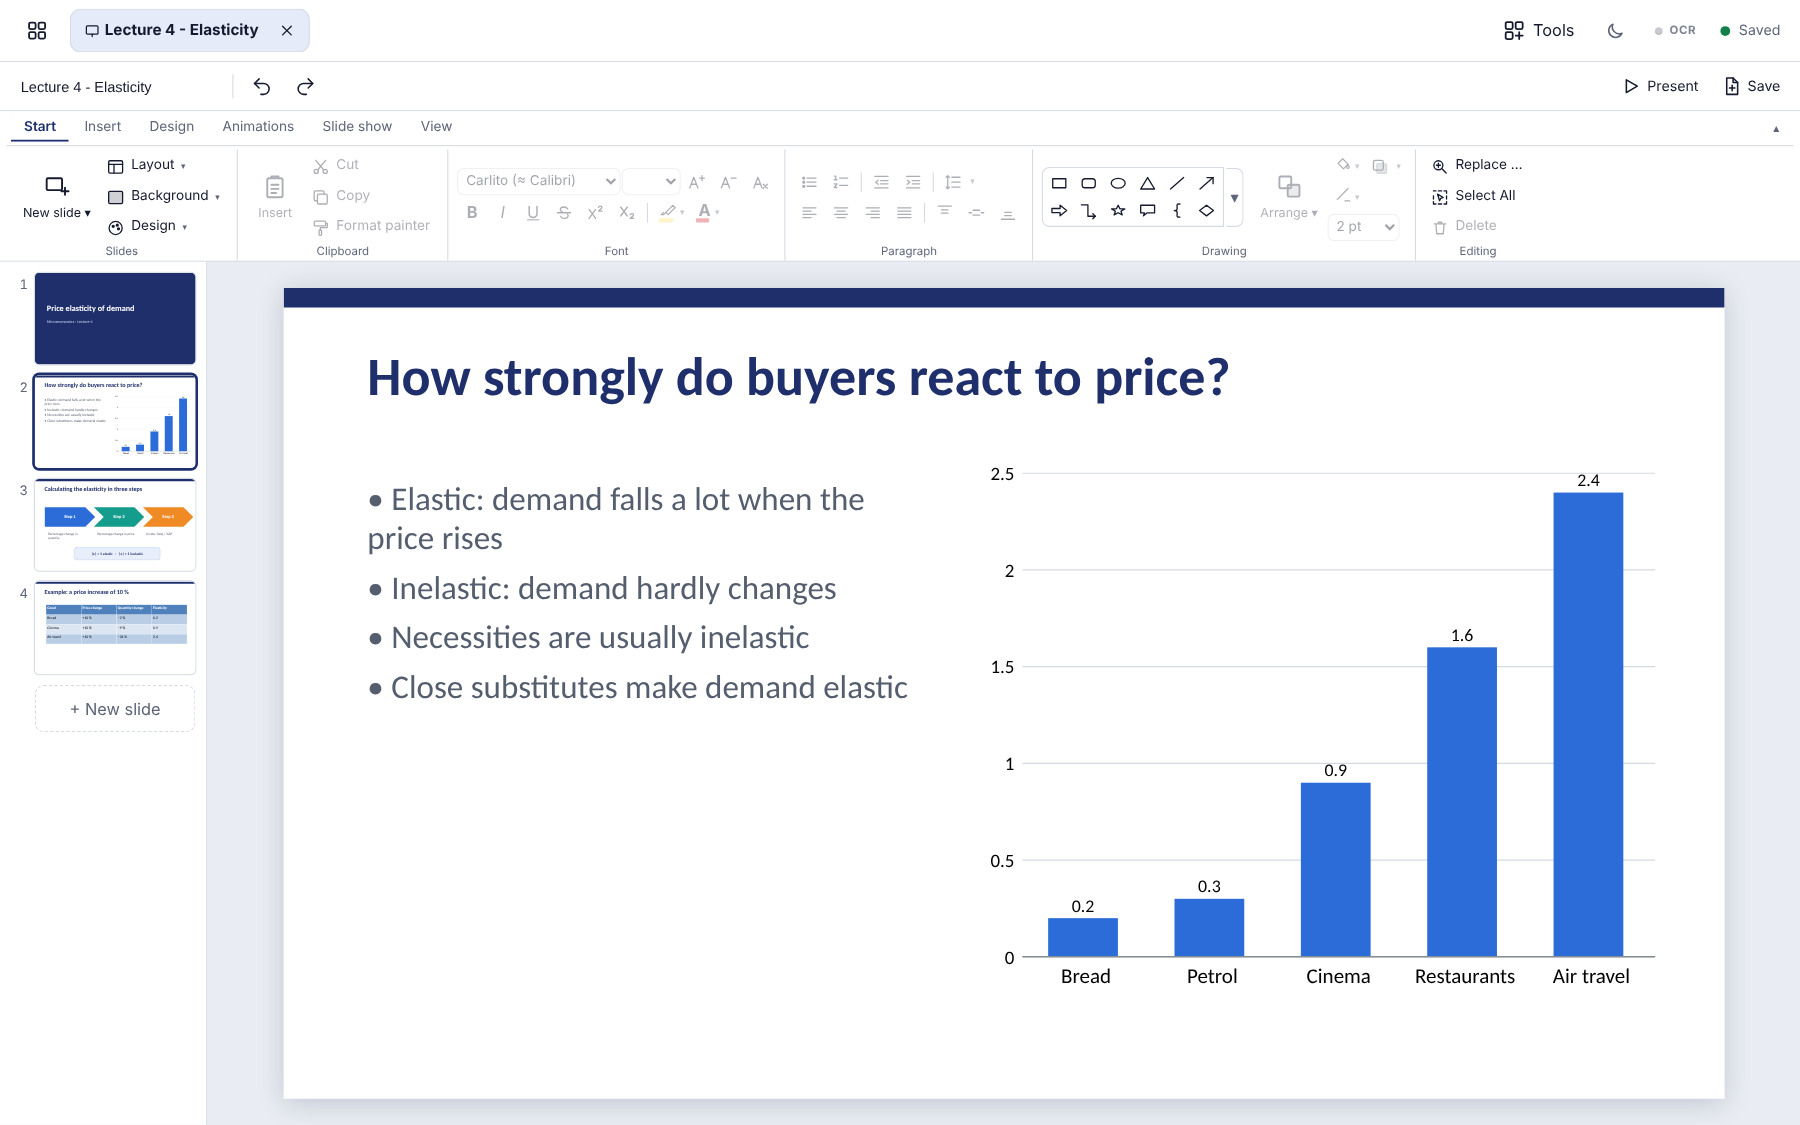
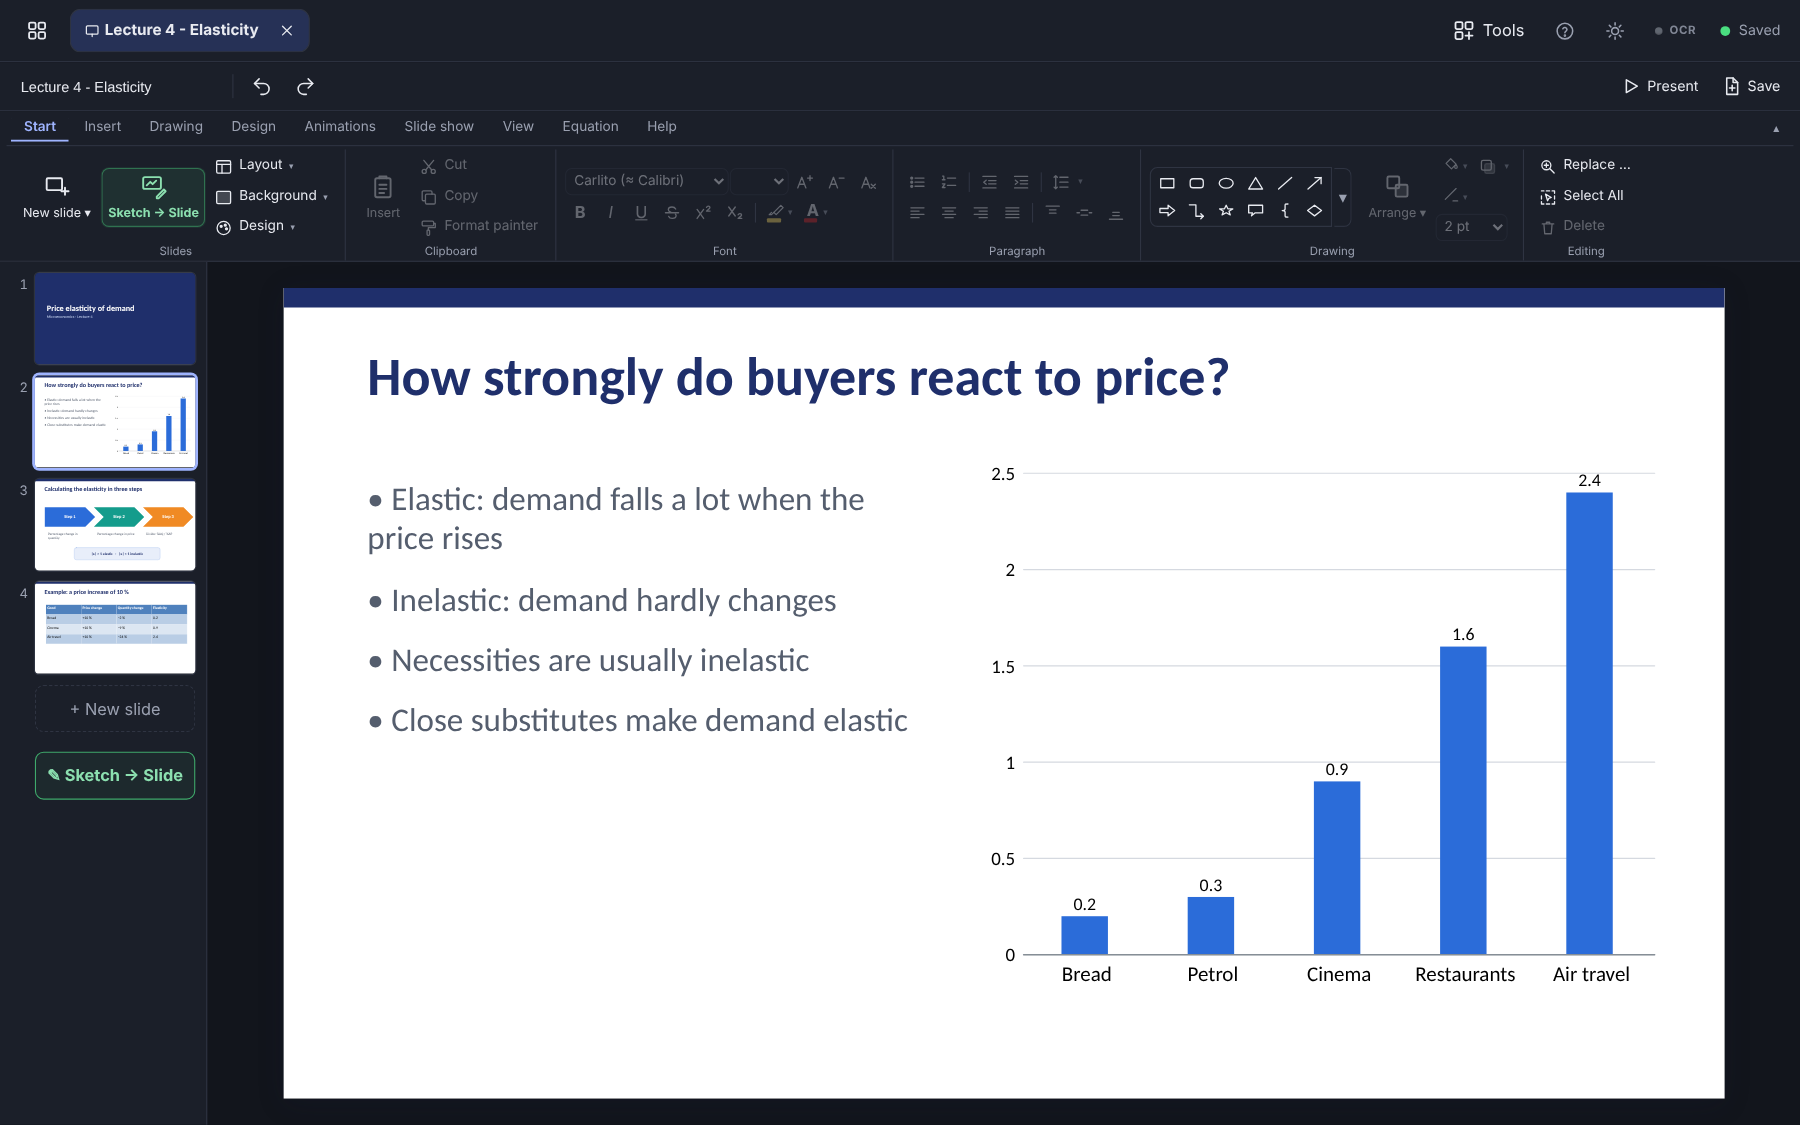
Version 1.2.73: New dark screenshots, updated description; chart labels only slanted when they really don't fit

diff --git a/app/app/deck.en.js b/app/app/deck.en.js
@@ -946,7 +946,7 @@
     // Platz für die Rubriken unter den Säulen: gedreht (Länge des längsten Texts) oder umgebrochen (bis 3 Zeilen)
     const pw0 = Math.max(10, right - (horiz ? Math.min(w * 0.35, catW) : valW) - left), slot0 = pw0 / n;
     // passen die Rubriken nicht nebeneinander (ein Wort breiter als der Platz), dreht PowerPoint sie schräg
-    if (!horiz && !rot && !e.nc && n > 1 && labels.some((t) => String(t).split(/\s+/).some((x) => tw(x) > slot0 * 0.95))) rot = -45;
+    if (!horiz && !rot && !e.nc && n > 1) { const ffc = fontCss((th && th.font) || 'sans'); if (labels.some((t) => String(t).split(/\s+/).some((x) => textW(x, fs, ffc) > slot0 * 0.98))) rot = -45; }
     const catLines = horiz || rot ? null : labels.map((t) => wrap(t, fs, Math.max(fs * 2, slot0 * 0.95), 3));
     const catH = e.nc ? fs * 0.4 : horiz ? fs * 1.5 : rot ? Math.min(h * 0.4, Math.abs(Math.sin((rot * Math.PI) / 180)) * Math.max(0, ...labels.map((t) => tw(t))) + fs * 1.2) : fs * (0.6 + 1.1 * Math.max(1, ...catLines.map((l) => l.length)));
     let L, B, R, T;

diff --git a/app/app/deck.js b/app/app/deck.js
@@ -945,7 +945,7 @@
     // Platz für die Rubriken unter den Säulen: gedreht (Länge des längsten Texts) oder umgebrochen (bis 3 Zeilen)
     const pw0 = Math.max(10, right - (horiz ? Math.min(w * 0.35, catW) : valW) - left), slot0 = pw0 / n;
     // passen die Rubriken nicht nebeneinander (ein Wort breiter als der Platz), dreht PowerPoint sie schräg
-    if (!horiz && !rot && !e.nc && n > 1 && labels.some((t) => String(t).split(/\s+/).some((x) => tw(x) > slot0 * 0.95))) rot = -45;
+    if (!horiz && !rot && !e.nc && n > 1) { const ffc = fontCss((th && th.font) || 'sans'); if (labels.some((t) => String(t).split(/\s+/).some((x) => textW(x, fs, ffc) > slot0 * 0.98))) rot = -45; }
     const catLines = horiz || rot ? null : labels.map((t) => wrap(t, fs, Math.max(fs * 2, slot0 * 0.95), 3));
     const catH = e.nc ? fs * 0.4 : horiz ? fs * 1.5 : rot ? Math.min(h * 0.4, Math.abs(Math.sin((rot * Math.PI) / 180)) * Math.max(0, ...labels.map((t) => tw(t))) + fs * 1.2) : fs * (0.6 + 1.1 * Math.max(1, ...catLines.map((l) => l.length)));
     let L, B, R, T;

diff --git a/app/app/app.en.js b/app/app/app.en.js
@@ -2,7 +2,7 @@
 /* PDF-Stift – PDFs mit dem Stift beschriften, automatisch speichern, offline weiterarbeiten. */
 'use strict';
 (() => {
-  const VERSION = '1.100.8';
+  const VERSION = '1.100.9';
   const API = 'api.php';
   const LOC = document.documentElement.lang === 'en' ? 'en-GB' : 'de-DE'; // Datums- und Zahlenformat der Sprache
   const DEC = LOC === 'de-DE' ? ',' : '.';

diff --git a/app/app/app.js b/app/app/app.js
@@ -1,7 +1,7 @@
 /* PDF-Stift – PDFs mit dem Stift beschriften, automatisch speichern, offline weiterarbeiten. */
 'use strict';
 (() => {
-  const VERSION = '1.100.8';
+  const VERSION = '1.100.9';
   const API = 'api.php';
   const LOC = document.documentElement.lang === 'en' ? 'en-GB' : 'de-DE'; // Datums- und Zahlenformat der Sprache
   const DEC = LOC === 'de-DE' ? ',' : '.';

diff --git a/app/sw.js b/app/sw.js
@@ -1,5 +1,5 @@
 /* PDF-Stift Service Worker: hält die App selbst offline bereit. PDFs und Notizen liegen in IndexedDB. */
-const VERSION = '1.100.8';
+const VERSION = '1.100.9';
 const CACHE = 'pdfstift-' + VERSION;
 const SHELL = [
   './',

diff --git a/app/lib/common.php b/app/lib/common.php
@@ -1,7 +1,7 @@
 <?php
 declare(strict_types=1);
 
-const PDFSTIFT_VERSION = '1.100.8';
+const PDFSTIFT_VERSION = '1.100.9';
 
 /**
  * Freie Ausgabe („local“): Die Windows-App startet einen eigenen kleinen PHP-Server nur für sich selbst.

diff --git a/README.de.md b/README.de.md
@@ -28,11 +28,12 @@ Alles bleibt auf Ihrem Gerät. Unter Windows und Linux braucht PDF-Stift kein Ko
 - **Passt zu Windows.** PDFs aus dem Explorer öffnen („In PDF-Stift öffnen“, „Senden an“), Word-, PowerPoint- und Excel-Dateien hineinziehen (umgewandelt mit Ihrem installierten Microsoft Office), aus jedem Programm auf den Drucker „PDF-Stift“ drucken, einen Ordner überwachen lassen und PDFs in den Explorer oder in eine E-Mail herausziehen.
 - **Notizbuch.** Seiten mit unendlicher Fläche, geordnet in Notizbüchern und Abschnitten. Folien samt Notizen mit einem Klick oder per Ziehen übernehmen, Seitenvorlagen (Cornell, Besprechung, Vorlesung), Suche in getipptem Text und übernommenen Folien, Verknüpfungen zwischen Notizen und PDFs, frühere Stände wiederherstellen, als PDF speichern oder drucken (auf A4 verteilt).
 - **Skizze → Folie.** Direkt auf der Folie zeichnen: Kreise, Rechtecke, Dreiecke, Linien und Pfeile werden sofort gerade gezogen – auf dem Gerät, ohne KI und ohne Kosten. Für Schrift, Tabellen, Diagramme und kompliziertere Skizzen gibt es *Sauber zeichnen* (freiwillige KI-Funktion): Es setzt nur das gerade auf der aktuellen Folie Gezeichnete an Ort und Stelle als bearbeitbare Elemente um und richtet es an dem aus, was schon auf der Folie steht. Ein Foto oder eine PDF-Seite mit handschriftlichen Notizen wird so zu neuen Folien. Der grüne Knopf steht neben *Neue Folie*. Für die KI brauchen Sie einen eigenen [API-Schlüssel von Anthropic](https://console.anthropic.com/) (Einstellungen → Skizze → Folie); eine Umwandlung kostet etwa 1–2 Cent.
-- **Präsentationen.** Folien mit Text, Formen, Bildern, Tabellen und Diagrammen gestalten – oder PowerPoint-Dateien (`.pptx`, einzeln oder einen ganzen Ordner) als bearbeitbare Präsentationen öffnen, samt SmartArt, Formeln, Farbverläufen, Animationen und Übergängen. Vorführen, als PDF speichern oder wieder als PowerPoint-Datei speichern – die Animationen bleiben erhalten.
-- **Vertrautes Menüband.** Registerkarten Start, Einfügen, Zeichnen, Seiten, Bildschirmpräsentation und Ansicht wie in Office-Programmen. Menüband und Stiftleisten lassen sich an jeden Fensterrand andocken.
+- **Präsentationen.** Folien mit Text, Formen, Bildern, Tabellen und Diagrammen gestalten – oder PowerPoint-Dateien (`.pptx`, einzeln oder einen ganzen Ordner) als bearbeitbare Präsentationen öffnen, samt SmartArt, Formeln, Diagrammen, Farbverläufen, Animationen und Übergängen. Die PowerPoint-Vorlage Ihrer Einrichtung lässt sich als Folienmaster übernehmen; neue Präsentationen bekommen dann deren Layouts, Logo und Schriften. Auf Folien schreiben Sie mit Druck, Lasso und Radierer wie in PDFs. Vorführen, als PDF speichern oder wieder als PowerPoint-Datei speichern – die Animationen bleiben erhalten.
+- **Formeln.** Ein Formel-Editor wie in Word (Reiter *Formel*: Bruch, Hochzahl, Wurzel, Summe, Integral, Symbole, Vorlagen) auf Folien und PDF-Seiten. In PowerPoint gespeichert bleibt die Formel bearbeitbar.
+- **Vertrautes Menüband.** Registerkarten Start, Einfügen, Zeichnen, Seiten, Bildschirmpräsentation, Ansicht, Formel und Hilfe wie in Office-Programmen, bei Präsentationen zusätzlich Entwurf, Animationen und Formformat. In der Windows-App steht darüber die gewohnte Menüleiste (Datei, Bearbeiten, Ansicht …). Menüband und Stiftleisten lassen sich an jeden Fensterrand andocken.
 - **Zwei Dokumente nebeneinander.** Folien links, Notizbuch oder eine zweite PDF rechts – mit einer gemeinsamen Werkzeugleiste.
 - **Präsentieren.** Referentenansicht für Beamer und Videokonferenz: Folie auf der Leinwand, nächste Folie, Stoppuhr und Sprechernotizen bei Ihnen.
-- **Deutsch und Englisch.** Umschalten unter Einstellungen → Sprache.
+- **Deutsch und Englisch, hell und dunkel.** Sprache unter Einstellungen → Sprache, Design mit dem Sonnen-/Mond-Knopf oben rechts.
 
 ## Installieren
 

diff --git a/README.md b/README.md
@@ -19,12 +19,13 @@ Everything stays on your device. On Windows and Linux PDF-Stift needs no account
 - **Clean up scans.** Straighten skewed pages, remove blank pages and increase contrast.
 - **Fits into Windows.** Open PDFs from Explorer ("Open in PDF-Stift", "Send to"), drag Word, PowerPoint or Excel files in (converted with your installed Microsoft Office), print from any program to the "PDF-Stift" printer, watch a folder, and drag PDFs out into Explorer or an e-mail.
 - **Notebook.** Infinite-canvas pages for handwritten notes, organized in notebooks and sections. Copy slides (with your notes) onto a notebook page with one click or by dragging them across, use page templates (Cornell, meeting, lecture), search typed text and copied slides, link notes and PDFs both ways, restore earlier versions, and save or print a page as PDF (split onto A4 sheets).
-- **Presentations.** Build slides with text, shapes, pictures, tables and charts – or open PowerPoint files (`.pptx`, one at a time or a whole folder) as editable presentations, including SmartArt, formulas, gradients, animations and transitions. Present them, save them as PDF, or save them back as PowerPoint with the animations kept.
+- **Presentations.** Build slides with text, shapes, pictures, tables and charts – or open PowerPoint files (`.pptx`, one at a time or a whole folder) as editable presentations, including SmartArt, formulas, charts, gradients, animations and transitions. Your institution's PowerPoint template can be taken over as a slide master, so new presentations get its layouts, logo and fonts. Write on slides with pressure, lasso and eraser just like on PDFs. Present them, save them as PDF, or save them back as PowerPoint with the animations kept.
+- **Equations.** A Word-style equation editor (*Equation* tab: fraction, exponent, root, sum, integral, symbols, templates) on slides and PDF pages. Saved to PowerPoint, the equation stays editable.
 - **Sketch → Slide.** Draw right on the slide: circles, rectangles, triangles, lines and arrows are straightened as you draw – on your device, without AI and at no cost. For handwriting, tables, charts and more complex sketches there is *Clean up* (optional AI): it turns only what you just drew on the current slide into editable elements, in place, aligned with what is already on the slide. A photo or a PDF page with handwritten notes becomes new slides the same way. Find it as the green button next to *New Slide*. The AI uses your own [Anthropic API key](https://console.anthropic.com/) (Settings → Sketch → Slide); one conversion costs about 1–2 cents.
-- **Familiar ribbon.** Start, Insert, Drawing, Pages, Slide show and View tabs as in office programs. The ribbon and the pen bars can be docked to any edge of the window.
+- **Familiar ribbon.** Start, Insert, Drawing, Pages, Slide show, View, Equation and Help tabs as in office programs, plus Design, Animations and Shape Format for presentations. In the Windows app the familiar menu bar (File, Edit, View …) sits on top. The ribbon and the pen bars can be docked to any edge of the window.
 - **Two documents side by side.** Slides on the left, notebook or a second PDF on the right – with one shared toolbar.
 - **Presenting.** Presenter view for a projector or video call: current slide on the big screen, next slide, timer and speaker notes on yours.
-- **English and German.** Switch under Settings → Language.
+- **English and German, light and dark.** Language under Settings → Language, design with the sun/moon button at the top right.
 
 ![Slides copied into the notebook, with text snippets and slide markers](docs/screenshots/notebook.png)
 
